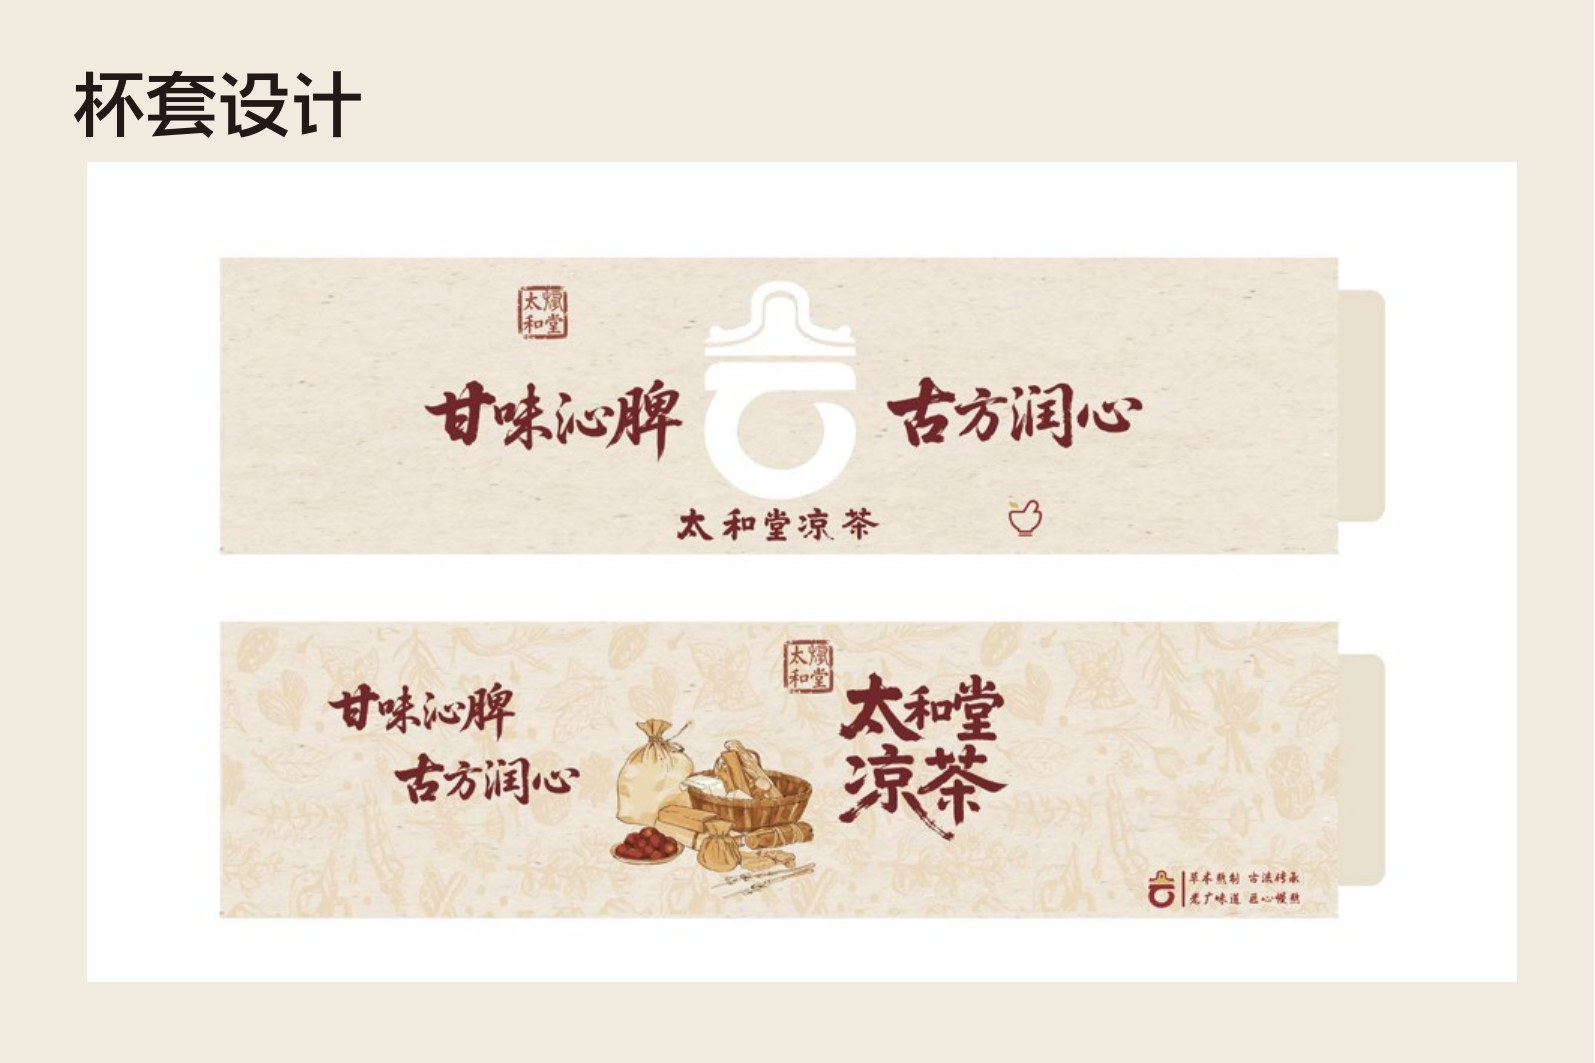
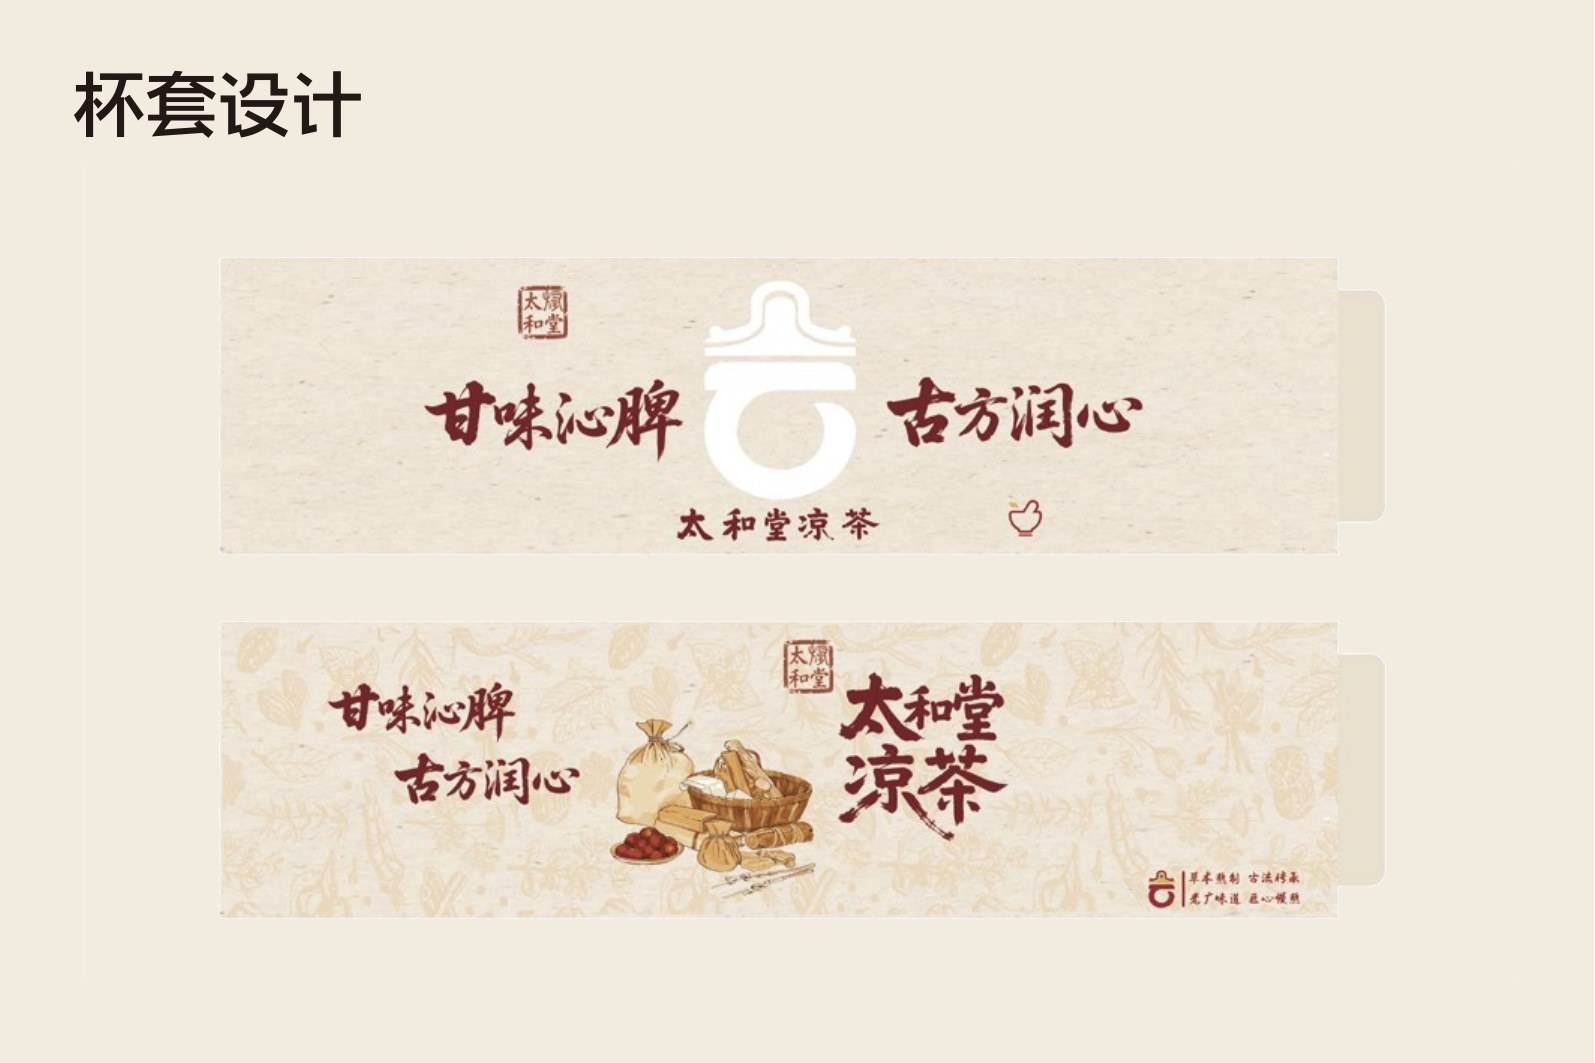
太和堂凉茶：去掉杯套/杯贴页白色底板，删除末尾两张空白页（20 -> 18 张），面包屑计数同步为 5 个

Changed region(s): [[0.0307, 0.1552, 0.9524, 0.9313]]

diff --git a/taihetang.html b/taihetang.html
@@ -73,7 +73,7 @@
   <span class="tag"><i></i>品牌设计 Brand</span>
   <h1>太和堂凉茶<small>Taihetang — Herbal Tea Brand VI</small></h1>
   <p class="desc">凉茶品牌视觉系统：葫芦标志与「太和堂凉茶」标准字、标准色与辅助图形、古方标语，以及物料、杯套、海报、菜单、杯贴等应用。</p>
-  <div class="crumb"><a href="brand.html">‹ 返回品牌设计，查看全部 4 个作品</a></div>
+  <div class="crumb"><a href="brand.html">‹ 返回品牌设计，查看全部 5 个作品</a></div>
 </div></header>
 <section class="intro"><div class="wrap"><div class="intro-grid">
   <div><div class="eyebrow">Overview · 项目概览</div><h2>太和堂凉茶<br><span>2025</span></h2></div>
@@ -97,8 +97,6 @@
       <figure class="board"><div class="brow"><span>16</span><span class="en">Taihetang — Herbal Tea Brand VI</span></div><div class="frame" onclick="lb(this)"><img loading="lazy" src="assets/brand/taihetang/p-16.jpg" alt="太和堂凉茶"></div></figure>
       <figure class="board"><div class="brow"><span>17</span><span class="en">Taihetang — Herbal Tea Brand VI</span></div><div class="frame" onclick="lb(this)"><img loading="lazy" src="assets/brand/taihetang/p-17.jpg" alt="太和堂凉茶"></div></figure>
       <figure class="board"><div class="brow"><span>18</span><span class="en">Taihetang — Herbal Tea Brand VI</span></div><div class="frame" onclick="lb(this)"><img loading="lazy" src="assets/brand/taihetang/p-18.jpg" alt="太和堂凉茶"></div></figure>
-      <figure class="board"><div class="brow"><span>19</span><span class="en">Taihetang — Herbal Tea Brand VI</span></div><div class="frame" onclick="lb(this)"><img loading="lazy" src="assets/brand/taihetang/p-19.jpg" alt="太和堂凉茶"></div></figure>
-      <figure class="board"><div class="brow"><span>20</span><span class="en">Taihetang — Herbal Tea Brand VI</span></div><div class="frame" onclick="lb(this)"><img loading="lazy" src="assets/brand/taihetang/p-20.jpg" alt="太和堂凉茶"></div></figure>
 </section>
 <section class="close"><div class="wrap"><div>
   <div class="eyebrow" style="color:rgba(255,255,255,.4)">Next · 下一步</div>
